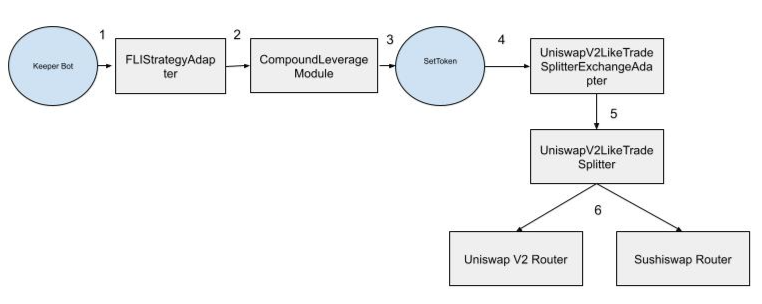
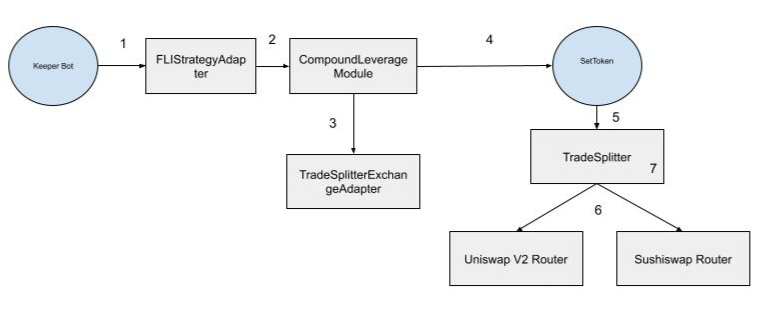
improve diagrams

diff --git a/STIPS/STIP-002.md b/STIPS/STIP-002.md
@@ -113,30 +113,32 @@ This feature will require one contract that conforms to IExchangeAdapter, one th
 - Peripheral contract has a view-only quote function
 
 ## User Flows
-![flow diagram](../assets/tradeSplitterTradeModule.png)
-1. Manager is looking to trade 10k SNX to 200 ETH.
-2. Manager calls trade() on TradeModule passing in the input tokens, output tokens, path, slippage tolerance, and “UniswapV2LikeTradeSplitterExchangeAdapter” as the exchange
-3. Get approval and trade calldata via UniswapV2LikeTradeSplitterExchangeAdapter
-4. The SetToken invokes an approval and trade on the UniswapV2LikeTradeSplitter
-5. UniswapV2LikeTradeSplitter calculates the optimal split between Uniswap and Sushiswap, and execute the trades, directing the outputs to the set token
+![flow diagram](../assets/tradeSplitterTradeModule.png)  
+### A manager is looking to trade 10k SNX to 200 ETH.
+1. Manager calls trade() on `TradeModule` passing in the input tokens, output tokens, path, slippage tolerance, and `TradeSplitterExchangeAdapter` as the exchange
+2. `TradeModule` gets approval and trade calldata via `TradeSplitterExchangeAdapter`
+3. `TradeModule` calls invoke on the SetToken twice, with the calldata to execute an approval and trade transaction.
+4. The SetToken approves the input token to `TradeSplitter`, and calls the tradeExactInput() function.
+5. `TradeSplitter` checks if it has the correct DEX approvals, calculates the optimal split between Uniswap and Sushiswap, and execute the trades, directing the outputs to the SetToken
 6. If the sum of the Uniswap and Sushiswap trade output are too low, then revert
 
-![flow diagram](../assets/tradeSplitterGeneralIndex.png)
-1. Manager is looking to trade 10k SNX to 200 ETH.
-2. Manager sets up a rebalance using GeneralIndexModule
-2. Manager calls trade() on GeneralIndexModule passing in the input tokens, output tokens, path, slippage tolerance, and “UniswapV2LikeTradeSplitterIndexExchangeAdapter” as the exchange
-3. Get approval and trade calldata via UniswapV2LikeTradeSplitterIndexExchangeAdapter
-4. The SetToken invokes an approval and trade on the UniswapV2LikeTradeSplitter
-5. UniswapV2LikeTradeSplitter calculates the optimal split between Uniswap and Sushiswap, and execute the trades, directing the outputs to the set token
+![flow diagram](../assets/tradeSplitterGeneralIndex.png)  
+### A manager is looking to trade 10k SNX to 200 ETH.
+1. Manager sets up a rebalance using GeneralIndexModule, then calls trade() on `GeneralIndexModule` passing in the input tokens, output tokens, path, slippage tolerance, whether to use an exact input trade, and `TradeSplitterExchangeAdapter` as the exchange
+2. `GeneralIndexModule` gets approval and trade calldata via `TradeSplitterIndexExchangeAdapter`
+3. `GeneralIndexModule` calls invoke on the SetToken twice, with the calldata to execute an approval and trade transaction.
+4. The SetToken approves the input token to `TradeSplitter`, and calls the tradeExactInput() or tradeExactOutput() function.
+5. `TradeSplitter` checks if it has the correct DEX approvals, calculates the optimal split between Uniswap and Sushiswap, and execute the trades, directing the outputs to the SetToken
 6. If the sum of the Uniswap and Sushiswap trade output are too low, then revert
 
 ![flow diagram](../assets/tradeSplitterCLM.png)
-1. Keeper bot needs to rebalance ETH2x-FLI because it is overleveraged
-2. Keeper bot calls rebalance on FlexibleLeverageStrategyAdapter.
-3. FlexibleLeverageStrategyAdapter calls delever on CompoundLeverageModule
-4. CompoundLeverageModule gets approval and trade calldata via UniswapV2LikeTradeSplitterIndexExchangeAdapter
-5. The SetToken invokes an approval and trade on the UniswapV2LikeTradeSplitter
-6. UniswapV2LikeTradeSplitter calculates the optimal split between Uniswap and Sushiswap, and execute the trades, directing the outputs to the set token
+### Keeper bot needs to rebalance ETH2x-FLI because it is overleveraged
+1. Keeper bot calls rebalance on `FlexibleLeverageStrategyAdapter`.
+2. `FlexibleLeverageStrategyAdapter` calls delever on `CompoundLeverageModule`
+3. `CompoundLeverageModule` gets approval and trade calldata via `TradeSplitterExchangeAdapter`
+4. `CompoundLeverageModule` calls invoke on the SetToken twice, with the calldata to execute an approval and trade transaction.
+5. The SetToken invokes an approval and trade on the `TradeSplitter`
+6. `TradeSplitter` checks if it has the correct DEX approvals, calculates the optimal split between Uniswap and Sushiswap, and execute the trades, directing the outputs to the SetToken
 7. If the sum of the Uniswap and Sushiswap trade output are too low, then revert
 
 ## Token Flows
